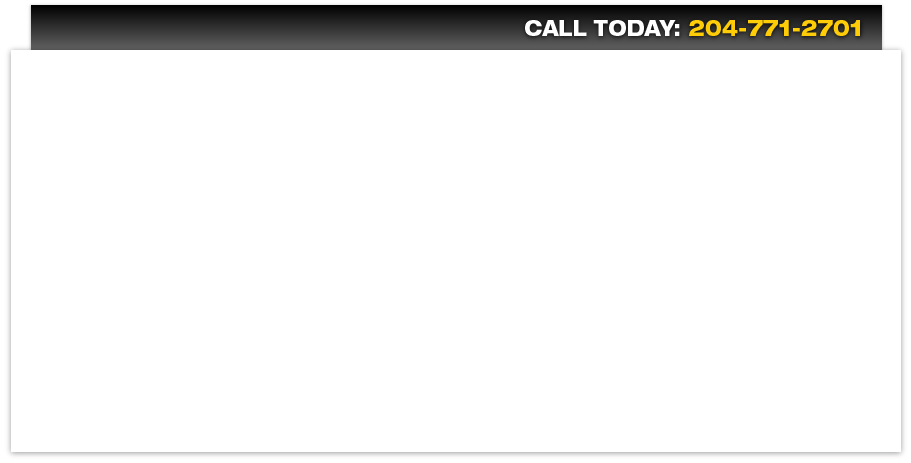
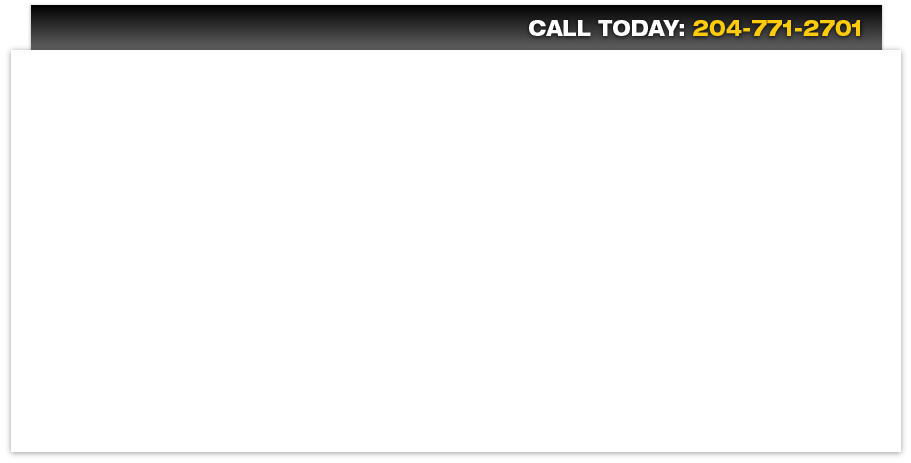
phone number change due to staff departure

Changed region(s): [[0.5532, 0.0302, 0.9528, 0.0907]]

diff --git a/about.html b/about.html
@@ -72,7 +72,7 @@
                 <br class="clear"/>
                 <div class="need-help-wrapper">
                   <div class="need-help" style="clear:both">
-                    Need help choosing the right lift for the job? <span class="call"> CALL 204-471-3316</span>
+                    Need help choosing the right lift for the job? <span class="call"> CALL 204-771-2701</span>
                   </div>
                 </div>
               </div>
